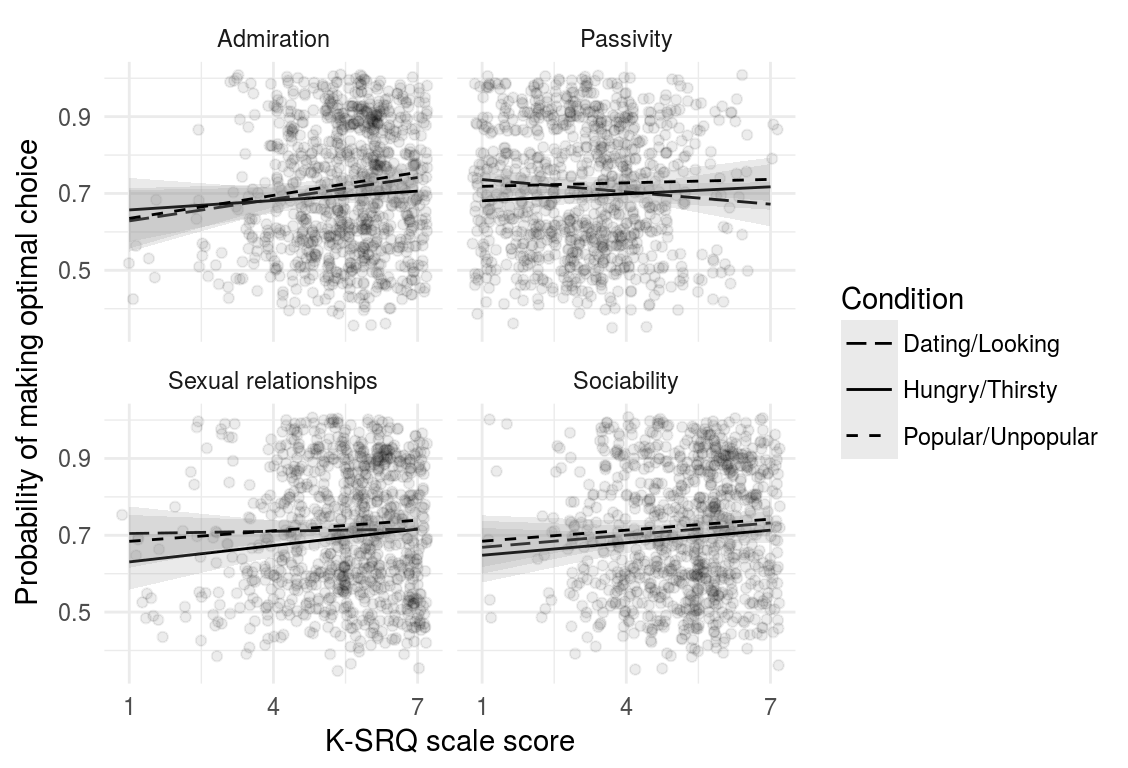
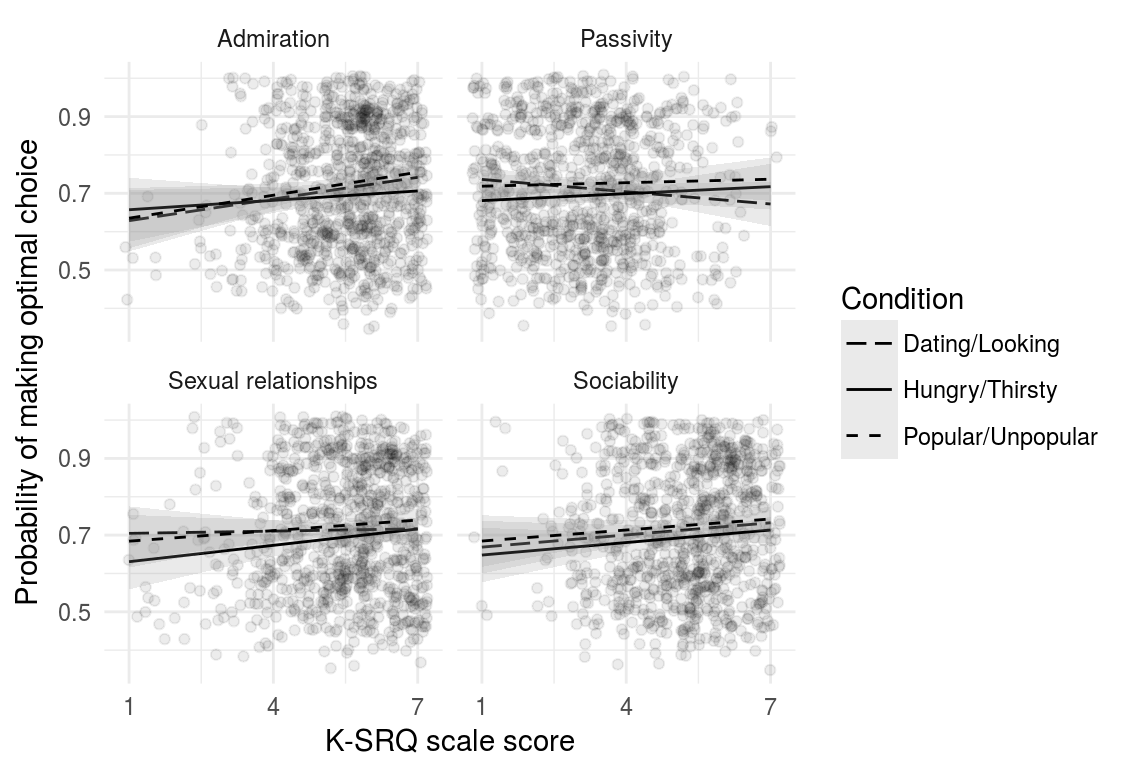
updated plots

Changed region(s): [[0.1241, 0.0938, 0.6826, 0.4375], [0.4344, 0.5312, 0.7137, 0.875], [0.1241, 0.5312, 0.4034, 0.875]]

diff --git a/docs/articles/fit-model-to-participant-data.html b/docs/articles/fit-model-to-participant-data.html
@@ -99,7 +99,7 @@
       <h1>Fit model to participant data</h1>
                         <h4 class="author">John Flournoy</h4>
             
-            <h4 class="date">2018-06-26</h4>
+            <h4 class="date">2018-08-02</h4>
       
       
       <div class="hidden name"><code>fit-model-to-participant-data.Rmd</code></div>
@@ -1153,7 +1153,7 @@ Sensation seeking
 </tr>
 </tbody>
 </table>
-<p>In addition to confirmatory factor analyses, scale reliability and general-factor validity were assessed via the <span class="math inline">\(\omega_{h}\)</span> and <span class="math inline">\(\omega_t\)</span> statistics. These statistics account for the possibility that variance on items is due to both a general latent factor common to all items, and several group fators that account for variance in subsets of items <span class="citation">(<span class="citeproc-not-found" data-reference-id="zinbarg2006"><strong>???</strong></span>)</span>. The <span class="math inline">\(\omega_{h}\)</span> statistic captures the proportion of variance due to a general factor, and so is proportional to the degree of expected correspondence between the scale and another measure of the construct (on a different scale, or at retest), and also indexes the validity of the scale as a measure of the ostensible latent construct. The reliability of the whole scale is indexed by <span class="math inline">\(\omega_t\)</span>, which includes variance due to both group and general factors. Cronebach’s <span class="math inline">\(\alpha\)</span> is also reported because it is the default practice, and it may be helpful to demonstrate the differences between the two approaches. All three statistics were calculated using the <code>omega</code> function in the <code>psych</code> package for R <span class="citation">(<span class="citeproc-not-found" data-reference-id="revelle2017"><strong>???</strong></span>)</span>.</p>
+<p>In addition to confirmatory factor analyses, scale reliability and general-factor validity were assessed via the <span class="math inline">\(\omega_{h}\)</span> and <span class="math inline">\(\omega_t\)</span> statistics. These statistics account for the possibility that variance on items is due to both a general latent factor common to all items, and several group fators that account for variance in subsets of items <span class="citation">(Zinbarg, Yovel, Revelle, &amp; McDonald, 2006)</span>. The <span class="math inline">\(\omega_{h}\)</span> statistic captures the proportion of variance due to a general factor, and so is proportional to the degree of expected correspondence between the scale and another measure of the construct (on a different scale, or at retest), and also indexes the validity of the scale as a measure of the ostensible latent construct. The reliability of the whole scale is indexed by <span class="math inline">\(\omega_t\)</span>, which includes variance due to both group and general factors. Cronebach’s <span class="math inline">\(\alpha\)</span> is also reported because it is the default practice, and it may be helpful to demonstrate the differences between the two approaches. All three statistics were calculated using the <code>omega</code> function in the <code>psych</code> package for R <span class="citation">(Revelle, 2017)</span>.</p>
 <p>The mate-seeking and status motive scales from the FSMI showed adequate reliability, with <span class="math inline">\(\alpha\)</span> and <span class="math inline">\(\omega_t\)</span> in the acceptable to excellent range according to some rules of thumb (Table ref(tab:fsmi_reliability). However, <span class="math inline">\(\omega_h\)</span> indicates that only about 68% of the variance in FSMI Status and 80% of the variance in FSMI mate-seeking are due to the general factor. In light of this, any correlations of scale responses with other constructs of interest should be interpretted in light of the possibility that they are due, in part, to associations between variance <em>not</em> due to the general factor (and thus <em>note</em> due to the construct of interest). Of course, the variance due to other latent causes may also be a reason true relations are attentuated.</p>
 <p><img src="fit-model-to-participant-data_files/figure-html/fsmiregression-1.png" width="700"><img src="fit-model-to-participant-data_files/figure-html/fsmiregression-2.png" width="700"><img src="fit-model-to-participant-data_files/figure-html/fsmiregression-3.png" width="700"><img src="fit-model-to-participant-data_files/figure-html/fsmiregression-4.png" width="700"></p>
 </div>
@@ -1746,10 +1746,32 @@ Sensation seeking
 <a href="#model-predicted-behavior" class="anchor"></a>Model predicted behavior</h2>
 <p>Below is a plot of 313 model predicted runs, all using the exact same task structure (arbitrarily, the first run of the task). Behavior is guided by the mean parameter estimates, so any variabilility in behavior is due to the probabilistic nature of selecting either the right or left option based on the model’s current knowledge at some point during the task. Another way of framing this is that it is the behavior of the averge actor, in 313 identical, hypothetical runs.</p>
 <p><img src="fit-model-to-participant-data_files/figure-html/unnamed-chunk-36-1.png" width="564"></p>
+</div>
+<div id="individual-probability-trajectories" class="section level2">
+<h2 class="hasAnchor">
+<a href="#individual-probability-trajectories" class="anchor"></a>Individual probability trajectories</h2>
+<p><img src="fit-model-to-participant-data_files/figure-html/unnamed-chunk-37-1.png" width="700"><img src="fit-model-to-participant-data_files/figure-html/unnamed-chunk-37-2.png" width="700"><img src="fit-model-to-participant-data_files/figure-html/unnamed-chunk-37-3.png" width="700"><img src="fit-model-to-participant-data_files/figure-html/unnamed-chunk-37-4.png" width="700"></p>
+<p><img src="fit-model-to-participant-data_files/figure-html/unnamed-chunk-38-1.png" width="564"></p>
+<p><img src="fit-model-to-participant-data_files/figure-html/unnamed-chunk-39-1.png" width="384"></p>
+<pre><code>#&gt; [[1]]</code></pre>
+<p><img src="fit-model-to-participant-data_files/figure-html/unnamed-chunk-40-1.png" width="564"></p>
+<pre><code>#&gt; 
+#&gt; [[2]]</code></pre>
+<p><img src="fit-model-to-participant-data_files/figure-html/unnamed-chunk-40-2.png" width="564"></p>
+<pre><code>#&gt; 
+#&gt; [[3]]</code></pre>
+<p><img src="fit-model-to-participant-data_files/figure-html/unnamed-chunk-40-3.png" width="564"></p>
+<pre><code>#&gt; 
+#&gt; [[4]]</code></pre>
+<p><img src="fit-model-to-participant-data_files/figure-html/unnamed-chunk-40-4.png" width="564"></p>
+<pre><code>#&gt; 
+#&gt; [[5]]</code></pre>
+<p><img src="fit-model-to-participant-data_files/figure-html/unnamed-chunk-40-5.png" width="564"></p>
+<p><img src="fit-model-to-participant-data_files/figure-html/unnamed-chunk-41-1.png" width="564"></p>
 <p>Given these model parameters, and the very strong assumption that nothing would purturb them from session to session, what would be the expected test-retest correlation for the differences between the H/T baseline and D/L or P/U conditions? The outcome of interest I’ll use is the average difference in the probability of choosing the optimal label in the last half of the run. This will over-estimate the true test-reliability because we’re using what is in practice an unknown latent parameter. Measurement error in any real situation will attenuate this true reliability. One way to assess this reliability is to draw random IDs (which in this case corresponds to simulated runs through the task), and then correlate the mean number of optimal presses in each condition across two sets of random draws. After all, since these simulations are all generating using the model parameters from the same participant, the rank-order of the mean probability of optimal press across the three conditions should be similar across simulations to the extent that the generated behavior is stable. A less ad hoc approach may be to use an interclass-correlation estimate to partition the variance into that systematically related to condition versus residual variance. In both cases, the estimate is middling, around .4 and .5 respectively. We can compare this to the observed reliability of the parameter estimates we obtain from the Bayesian models.</p>
 <pre><code>#&gt;      2.5%       50%     97.5% 
-#&gt; 0.3249964 0.3821612 0.4369912</code></pre>
-<p><img src="fit-model-to-participant-data_files/figure-html/unnamed-chunk-37-1.png" width="700"></p>
+#&gt; 0.3317423 0.3812127 0.4348343</code></pre>
+<p><img src="fit-model-to-participant-data_files/figure-html/unnamed-chunk-42-1.png" width="700"></p>
 <pre><code>#&gt; Linear mixed model fit by REML ['lmerMod']
 #&gt; Formula: mean_mean_p_opt ~ 1 + (1 | condition)
 #&gt;    Data: mean_modpred_ppressopt
@@ -1771,9 +1793,29 @@ Sensation seeking
 #&gt; (Intercept)   0.7775     0.0191    40.7
 #&gt; [1] 0.4792777</code></pre>
 </div>
-<div id="diagnostics" class="section level2">
+<div id="extra-figs" class="section level2">
+<h2 class="hasAnchor">
+<a href="#extra-figs" class="anchor"></a>Extra figs</h2>
+<ul>
+<li>individual-level betas + contrast betas for each sample
+<ul>
+<li>for each individual, sorted</li>
+</ul>
+</li>
+</ul>
+<p><img src="fit-model-to-participant-data_files/figure-html/unnamed-chunk-43-1.png" width="564"><img src="fit-model-to-participant-data_files/figure-html/unnamed-chunk-43-2.png" width="564"><img src="fit-model-to-participant-data_files/figure-html/unnamed-chunk-43-3.png" width="564"><img src="fit-model-to-participant-data_files/figure-html/unnamed-chunk-43-4.png" width="564"></p>
+</div>
+<div id="diagnostics" class="section level2 unnumbered">
 <h2 class="hasAnchor">
 <a href="#diagnostics" class="anchor"></a>Diagnostics</h2>
+<div id="refs" class="references">
+<div id="ref-revelle2017">
+<p>Revelle, W. (2017). <em>Psych: Procedures for Psychological, Psychometric, and Personality Research</em>. Evanston, Illinois: Northwestern University. Retrieved from <a href="https://CRAN.R-project.org/package=psych" class="uri">https://CRAN.R-project.org/package=psych</a></p>
+</div>
+<div id="ref-zinbarg2006">
+<p>Zinbarg, R. E., Yovel, I., Revelle, W., &amp; McDonald, R. P. (2006). Estimating Generalizability to a Latent Variable Common to All of a Scale’s Indicators: A Comparison of Estimators for ωh. <em>Applied Psychological Measurement</em>, <em>30</em>(2), 121–144. doi:<a href="https://doi.org/10.1177/0146621605278814">10.1177/0146621605278814</a></p>
+</div>
+</div>
 </div>
 </div>
   </div>
@@ -1807,6 +1849,8 @@ Sensation seeking
       <li><a href="#mean-parameter-estimates">Mean parameter estimates</a></li>
       <li><a href="#variance">Variance</a></li>
       <li><a href="#model-predicted-behavior">Model predicted behavior</a></li>
+      <li><a href="#individual-probability-trajectories">Individual probability trajectories</a></li>
+      <li><a href="#extra-figs">Extra figs</a></li>
       <li><a href="#diagnostics">Diagnostics</a></li>
       </ul>
 </li>
